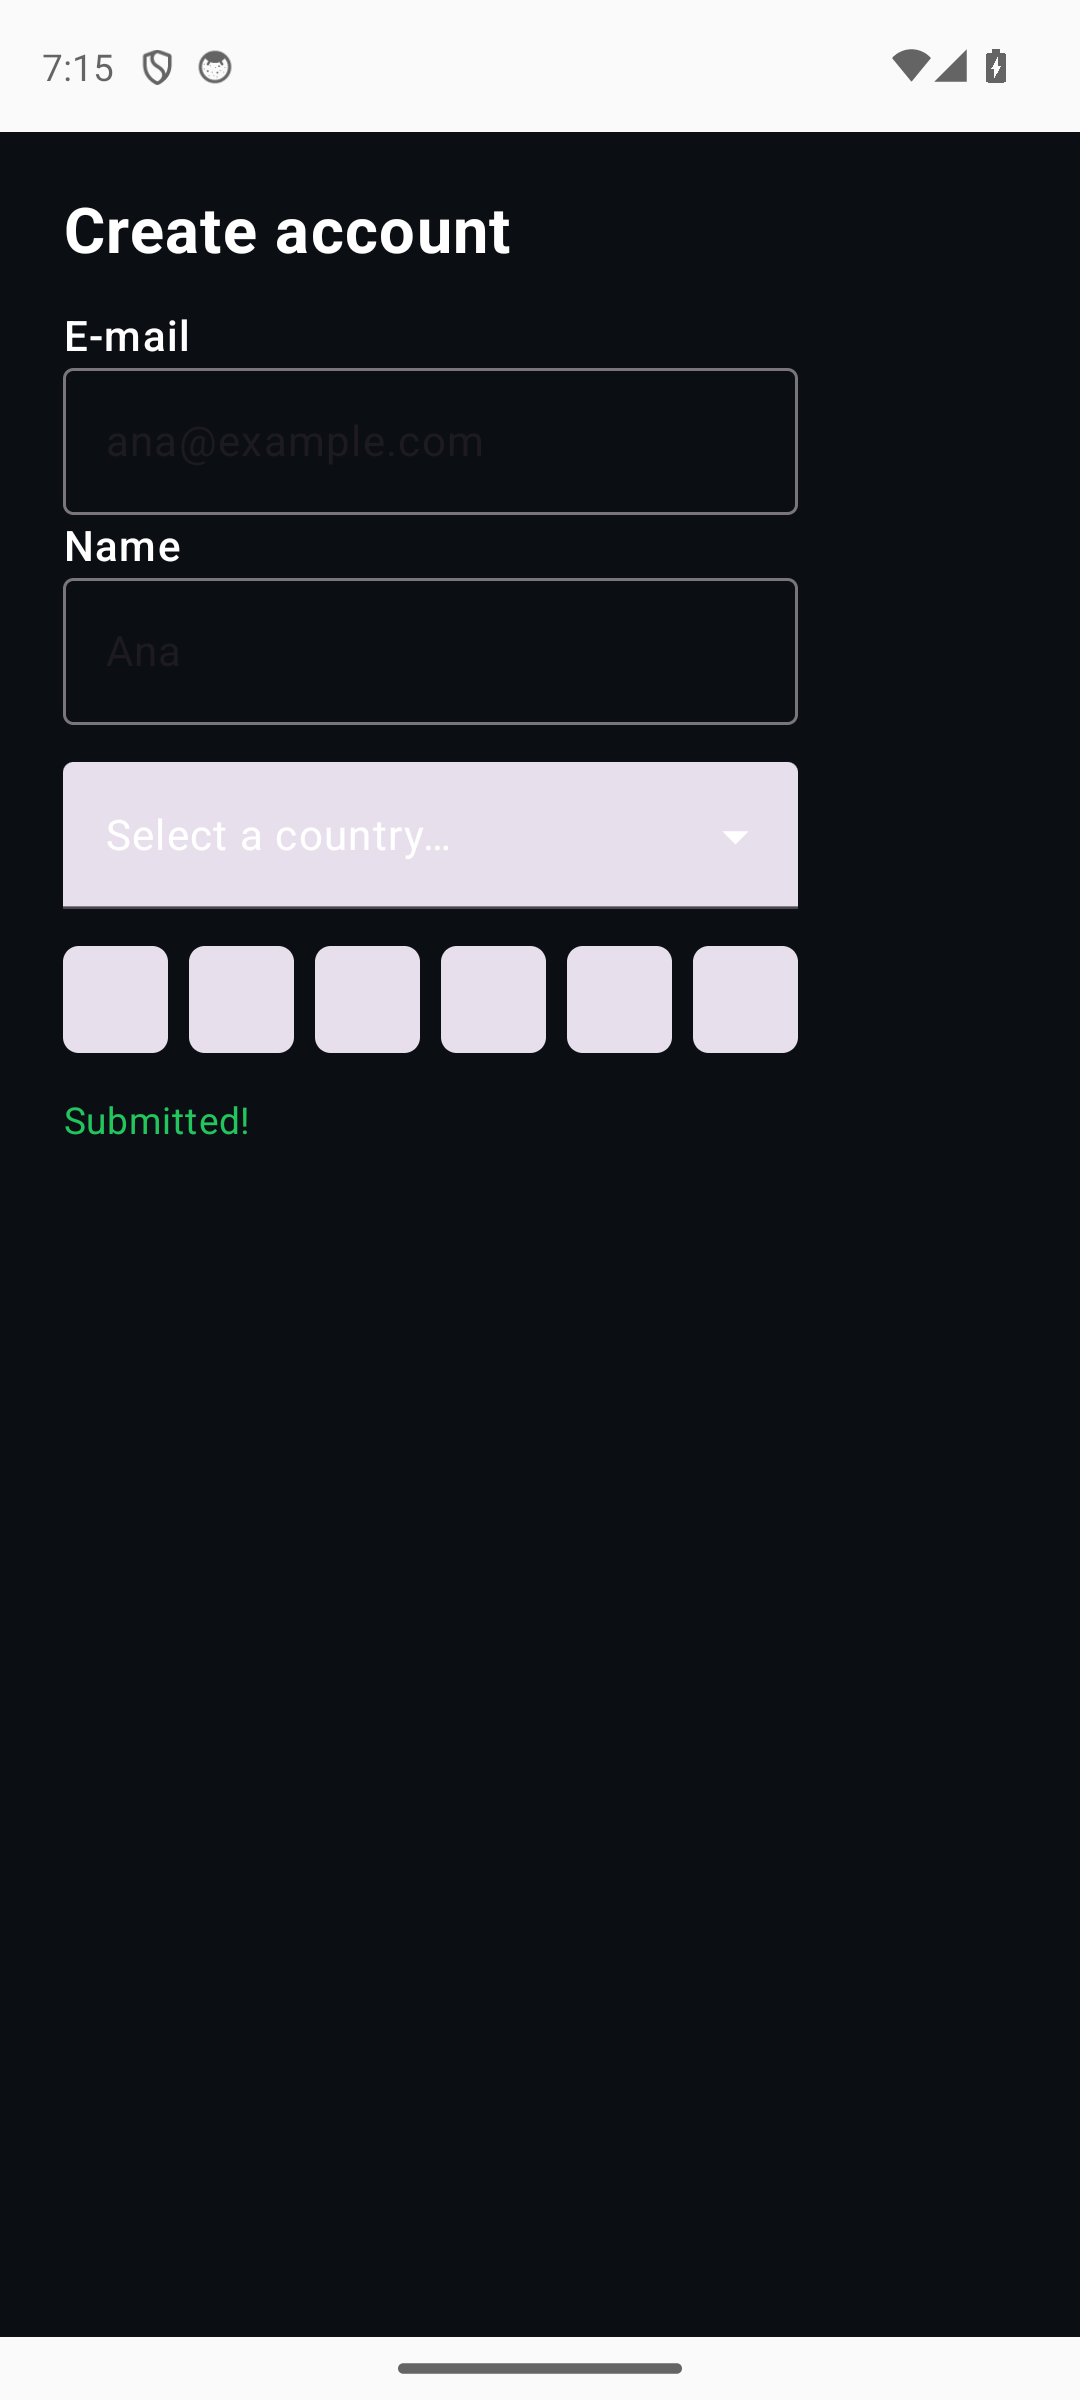
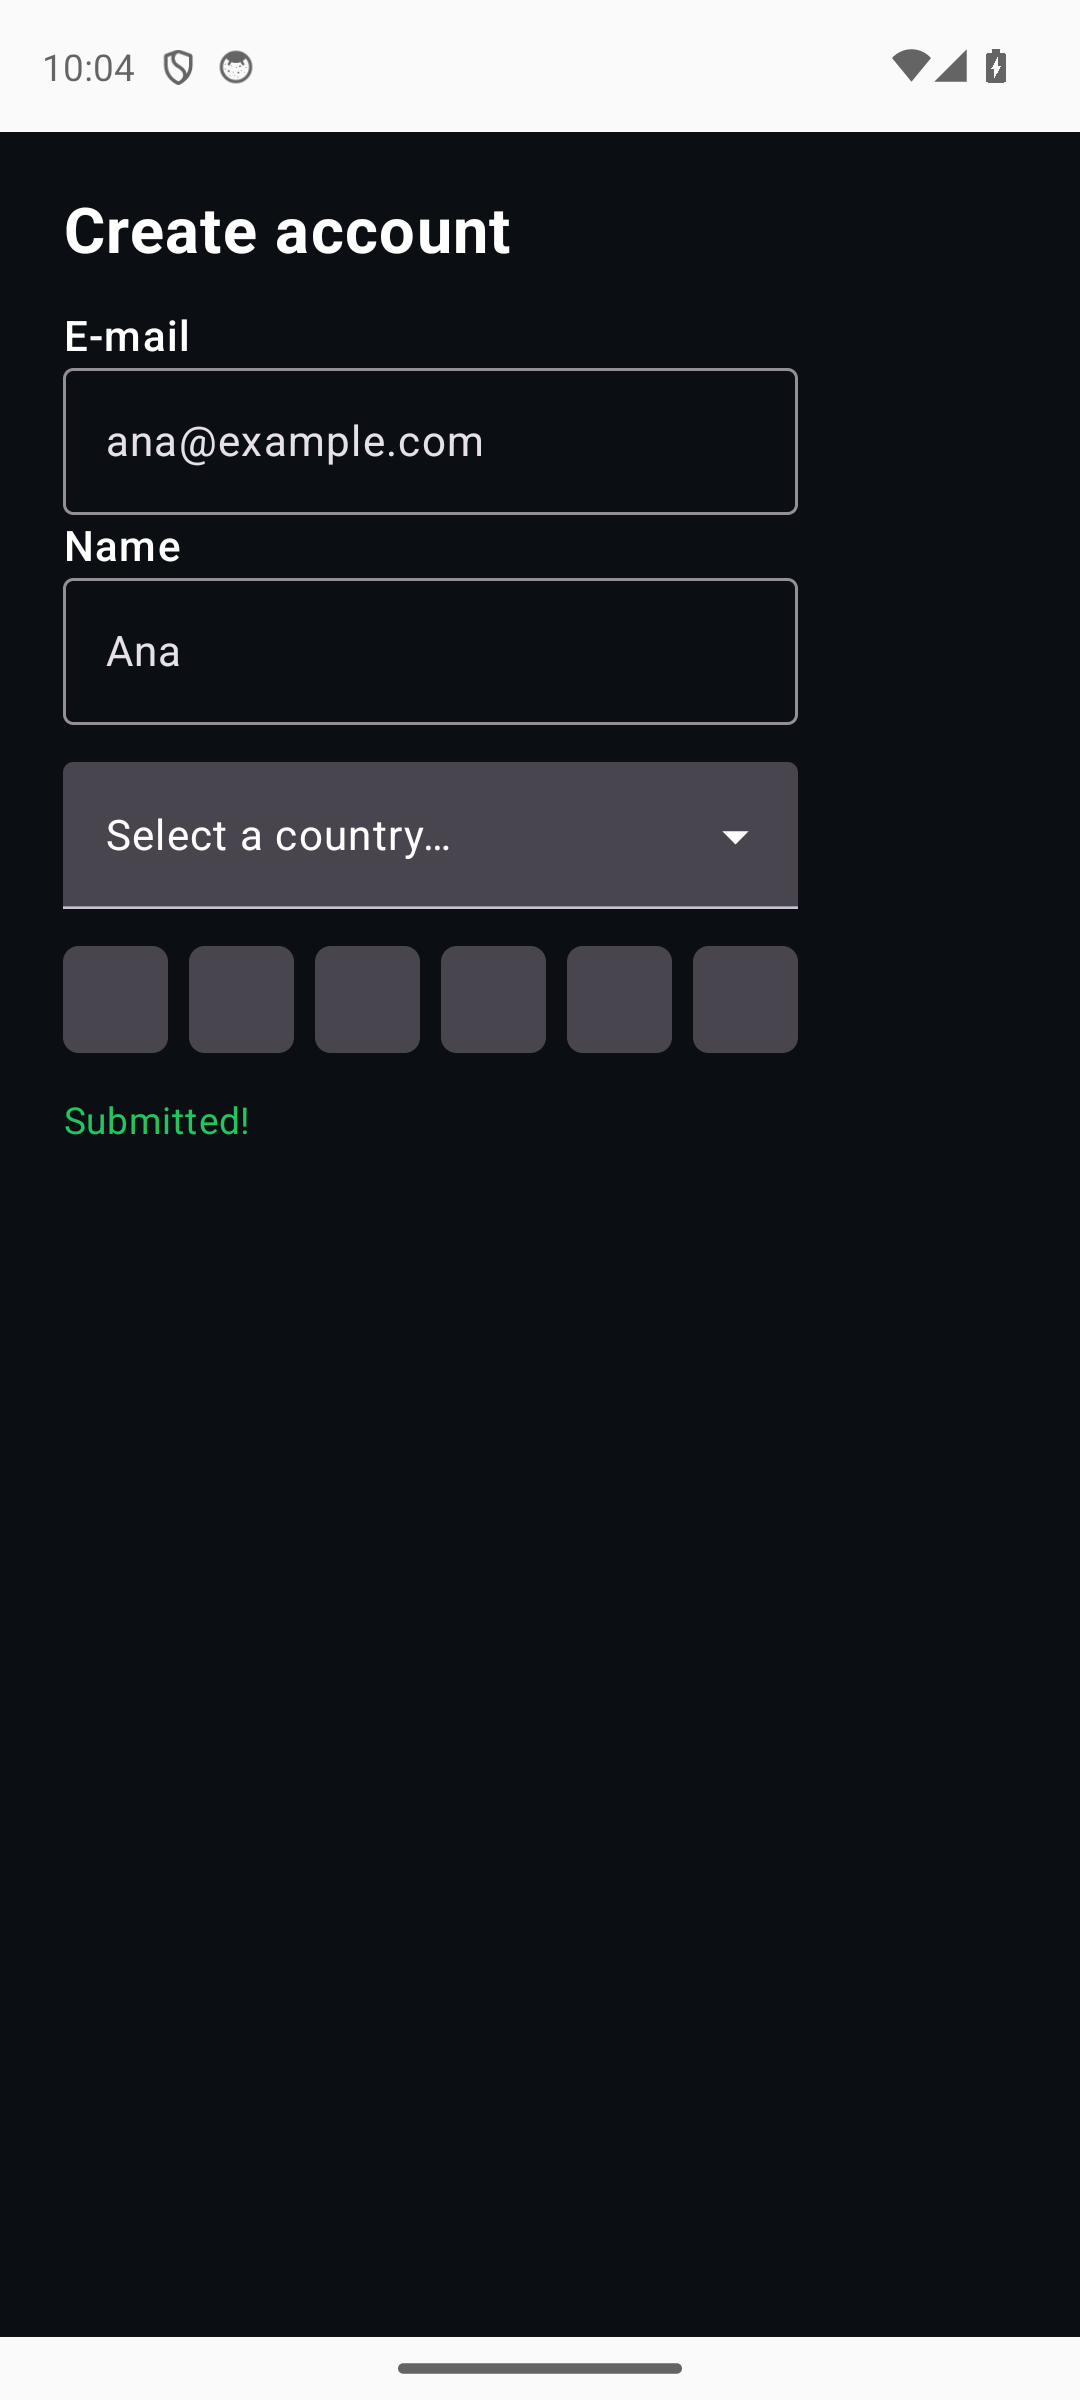
fix(testing): forms uitest carries make_theme so served app renders dark
The forms uitest re-exported only view + make_state, so the module the driver
loads as the app dropped make_theme(). On the emulator that fell back to the
'system' theme: the host (#100) picked a LIGHT colorScheme and the Material-default
widgets (Dropdown, PinInput cells) rendered in light lavender instead of dark —
not matching examples/forms/app.py, which declares Theme(mode=DARK).

Re-export make_theme from the app contract (import + __all__). The driver now
serves the dark theme, completing the Option B device-verification: make_theme(DARK)
-> #99 emits theme_mode='dark' -> #100 host picks darkColorScheme() -> Dropdown +
PinInput render dark on the emulator (screenshots regenerated).

Headless 3/3 unchanged (make_theme does not alter the assertions). Gate green
(ruff + pyright strict + 1206 pytest + mkdocs --strict).

diff --git a/examples/forms/test_forms.py b/examples/forms/test_forms.py
@@ -19,11 +19,15 @@ runs on the emulator/device (``--target emulator``).
 
 from __future__ import annotations
 
-from app import make_state, view  # noqa: F401 — the app contract the driver loads
+# Re-export the full app contract — including ``make_theme`` so the served module
+# carries the app's initial theme (dark). The driver loads THIS module as the app,
+# so without re-exporting ``make_theme`` the theme would silently fall back to
+# ``system`` and the device render would not match ``examples/forms/app.py``.
+from app import make_state, make_theme, view  # noqa: F401 — the app contract
 
 from tempestroid.testing import Page
 
-__all__ = ["make_state", "view"]
+__all__ = ["make_state", "make_theme", "view"]
 
 _PROMPT = "Fill the form and submit (invalid fields block it)."
 _EMAIL_ERROR = "E-mail inválido"